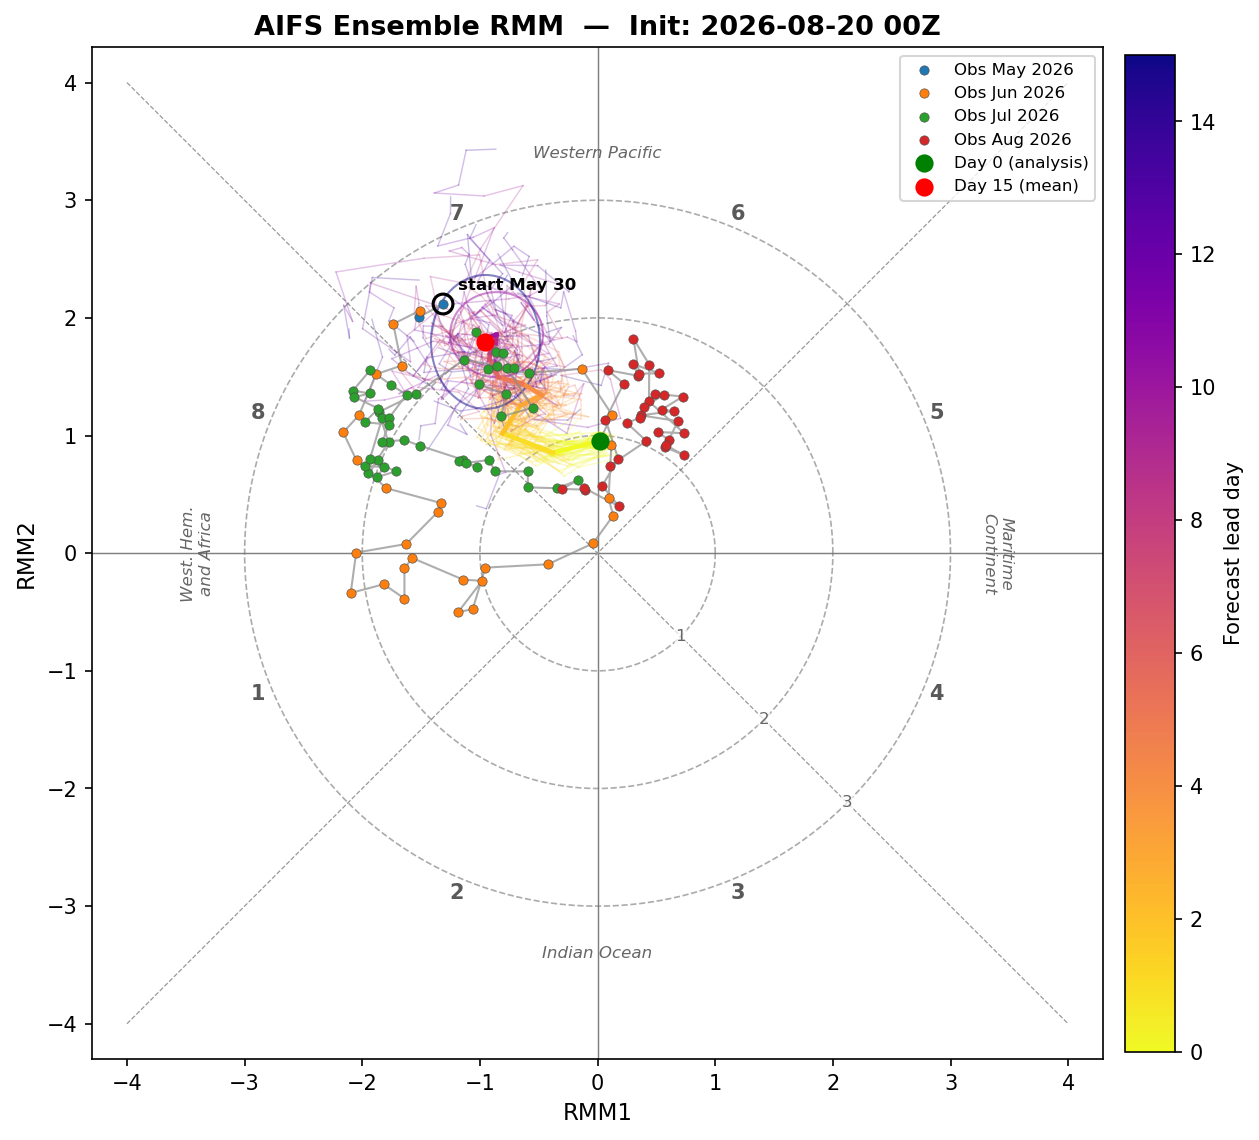
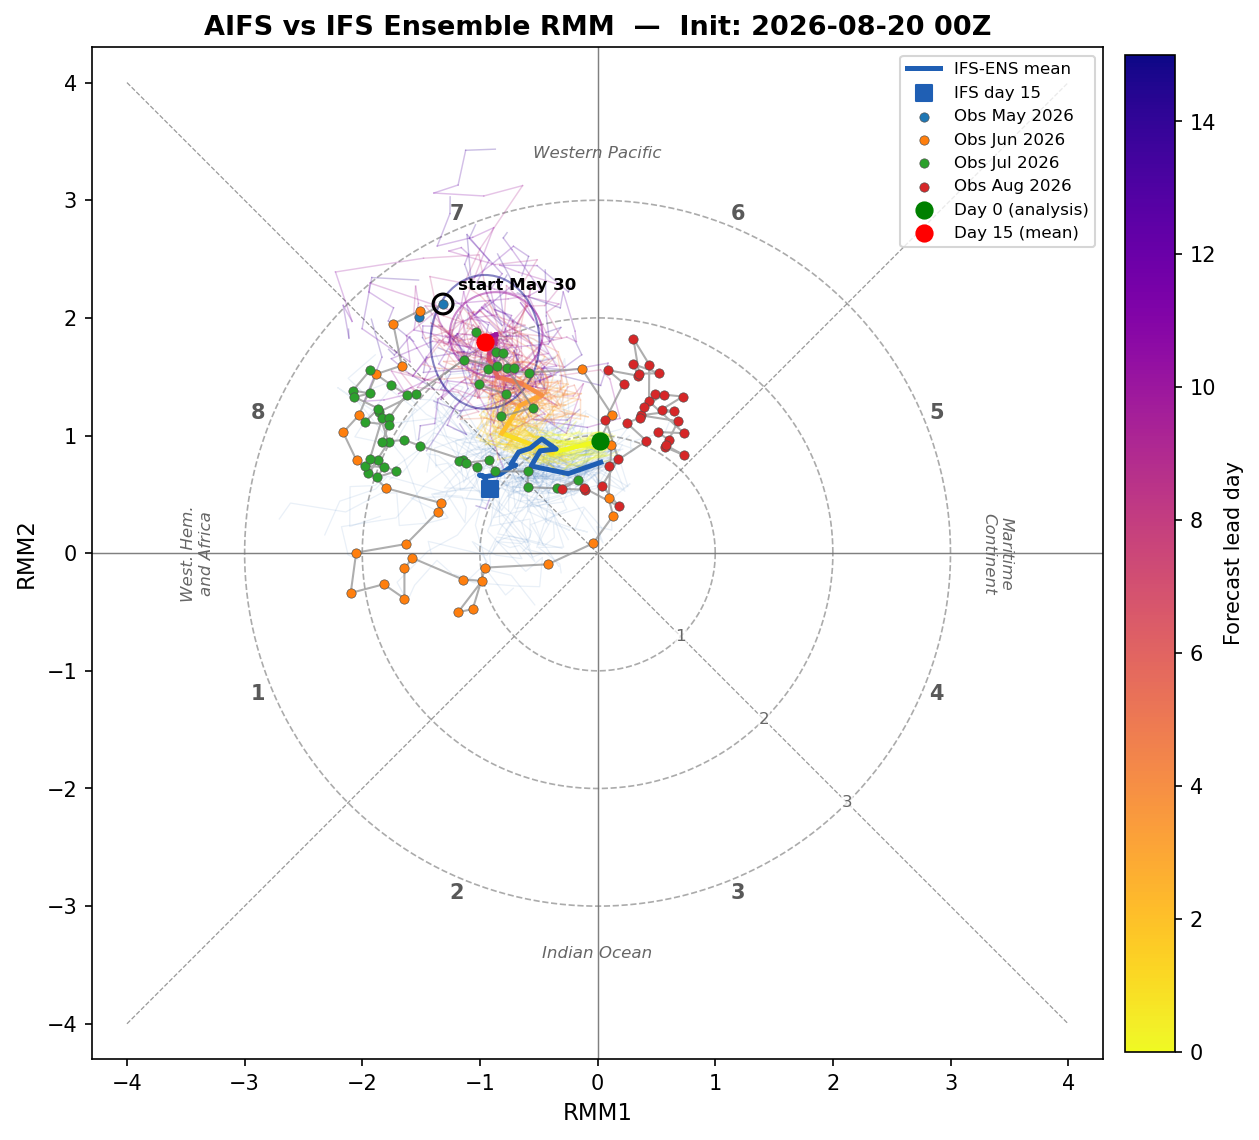
MJO RMM: 20260820_00z (local)

Changed region(s): [[0.1549, 0.0, 0.8674, 0.2149], [0.3407, 0.2149, 0.4956, 0.4912]]

diff --git a/mjo.html b/mjo.html
@@ -85,7 +85,7 @@
   degrees of the official BoM RMM phase).</p>
     <p class="lede" style="margin:0.5rem 0 1.2rem">Latest init: <strong>2026-08-20 00Z</strong>. Drag the slider to step through successive forecast runs (oldest → latest) and watch the predicted MJO track evolve.</p>
   <iframe class="anim-embed" src="sst_anim.html?embed=1&amp;base=assets&amp;manifest=mjo/rmm_manifest.json&amp;region=mjo" title="AIFS-ENS RMM forecast — successive runs animation" loading="lazy"></iframe>
-  <p class="meta">Updated 2026-08-20 06:47Z · Auto-generated from the AIFS-ENS open-data
+  <p class="meta">Updated 2026-08-20 09:33Z · Auto-generated from the AIFS-ENS open-data
   feed. Methodology: NOAA CPC / Wheeler &amp; Hendon (2004), EOFs from NOAA OLR +
   NCEP wind with the 120-day low-frequency filter removed; pseudo-OLR from
   &minus;standardized daily precip vs an ERA5 1991&ndash;2020 band climatology.</p>
